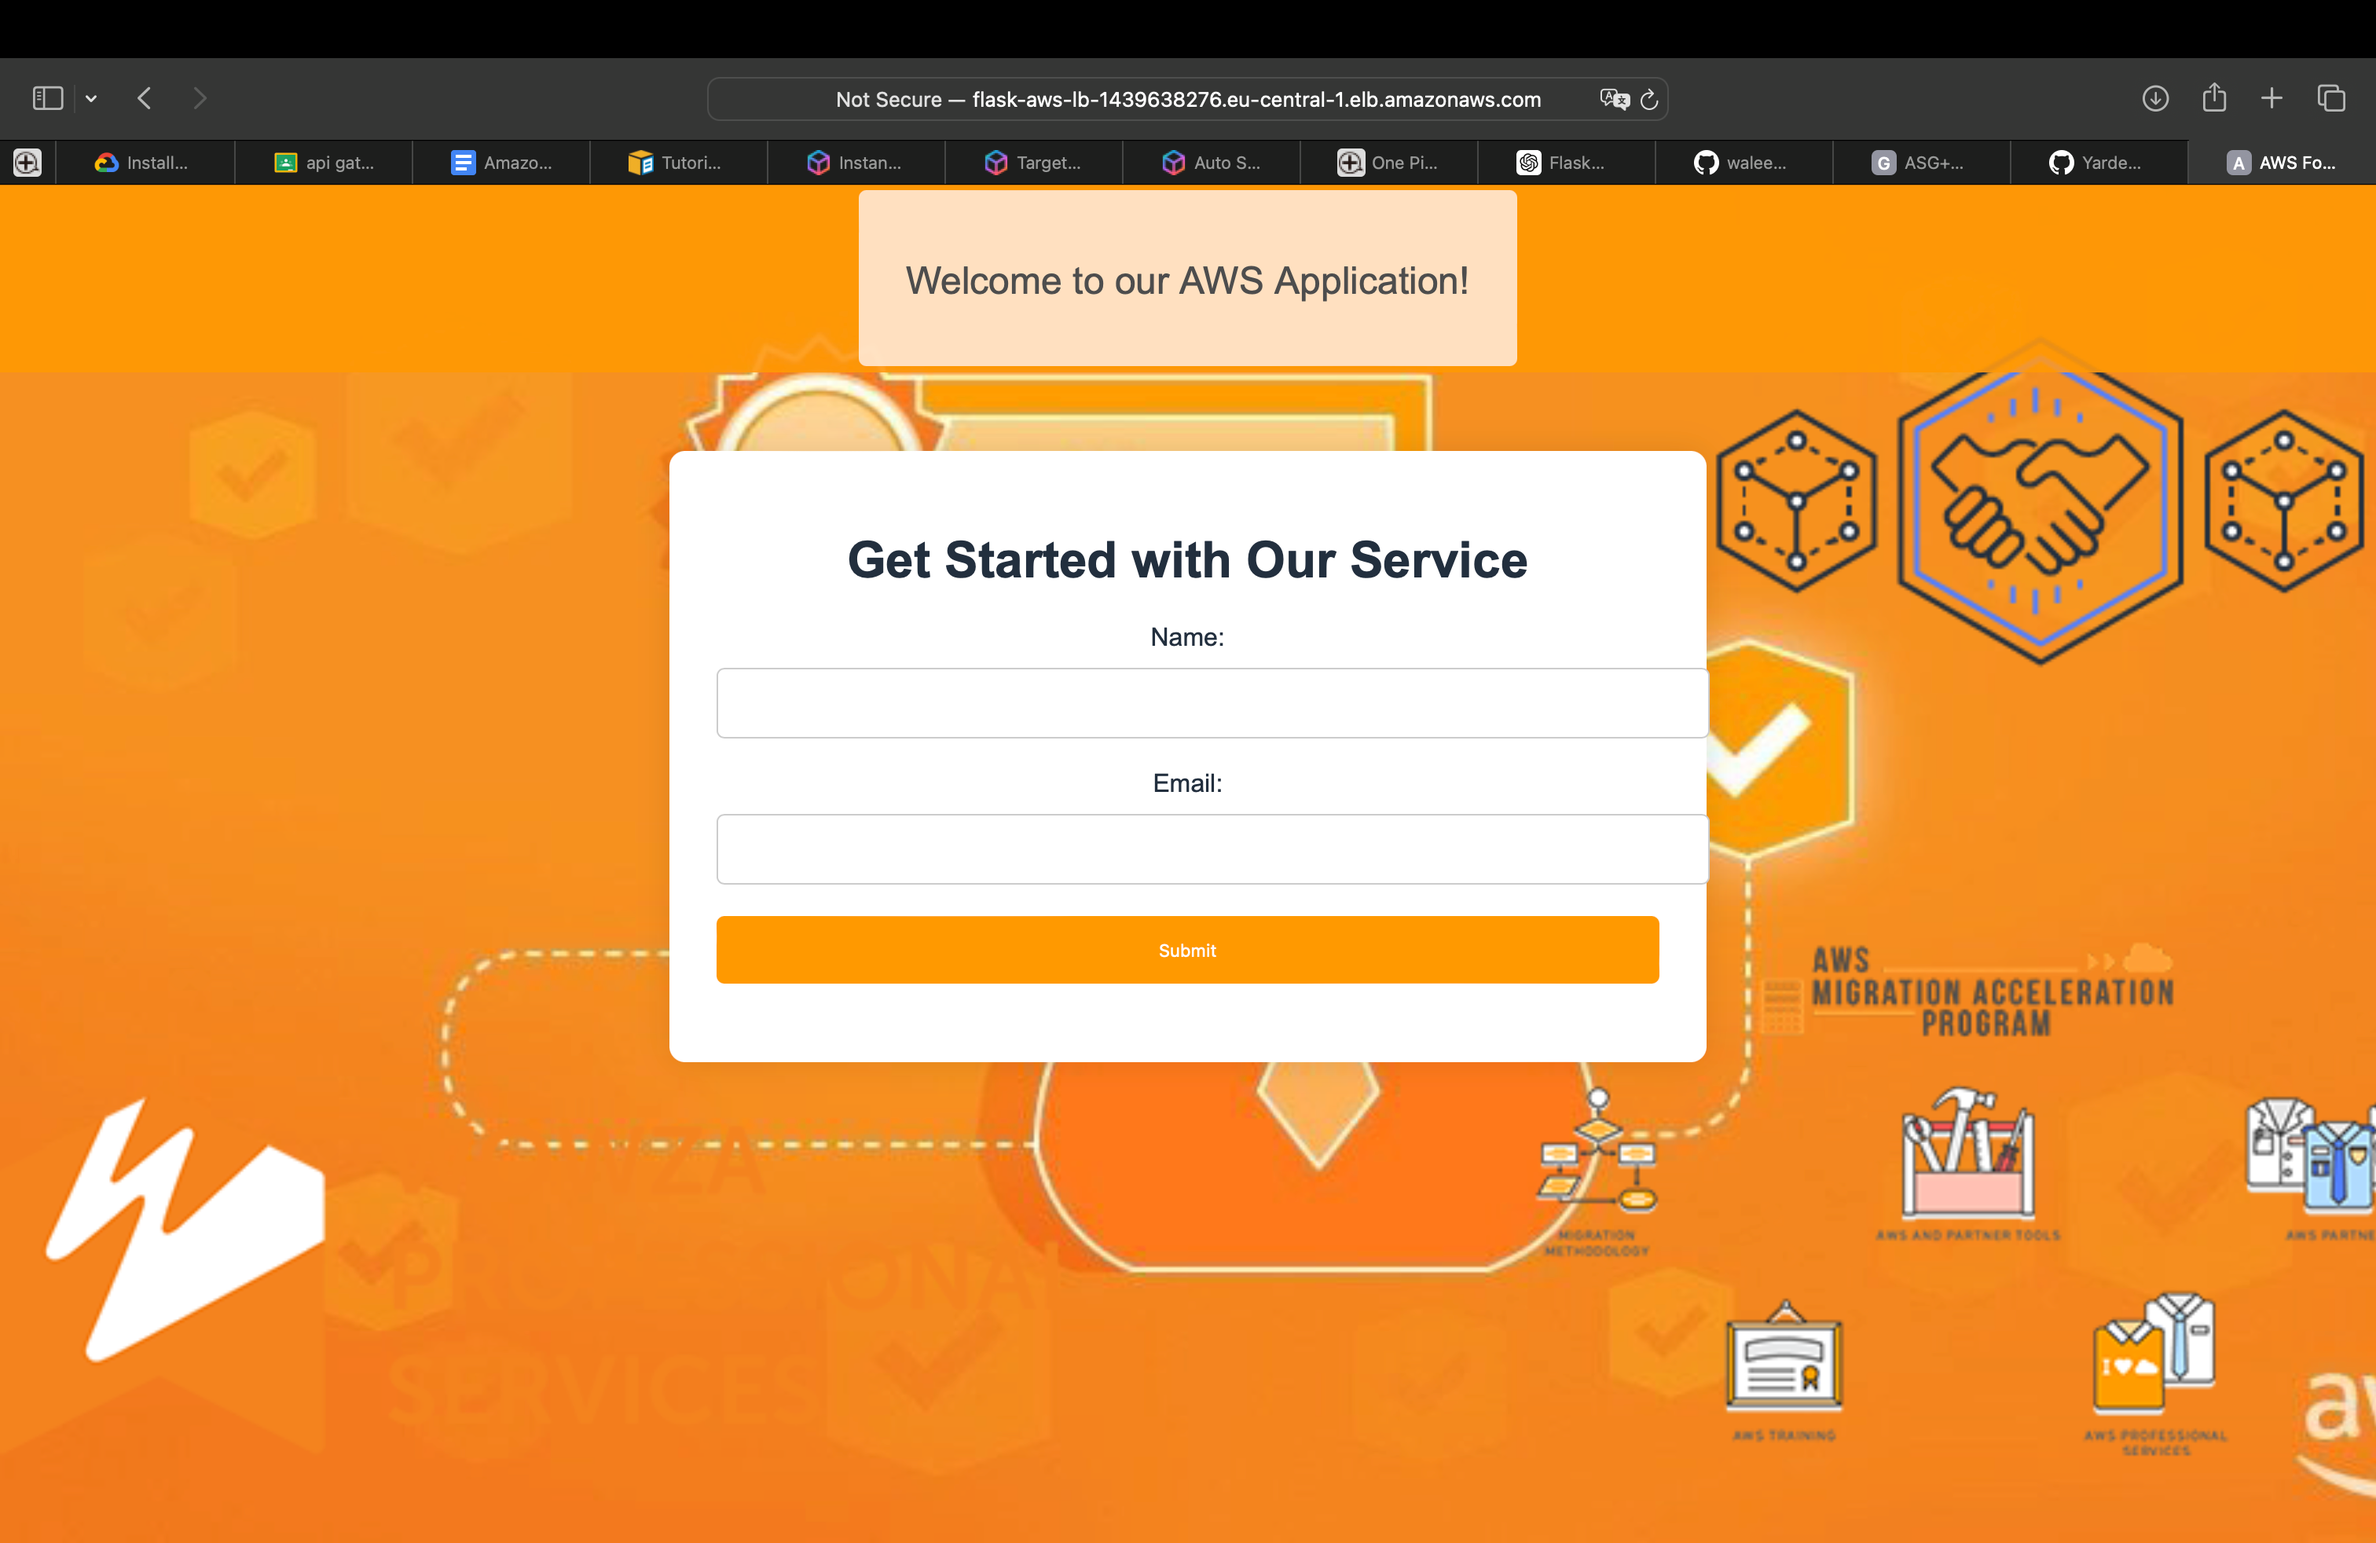
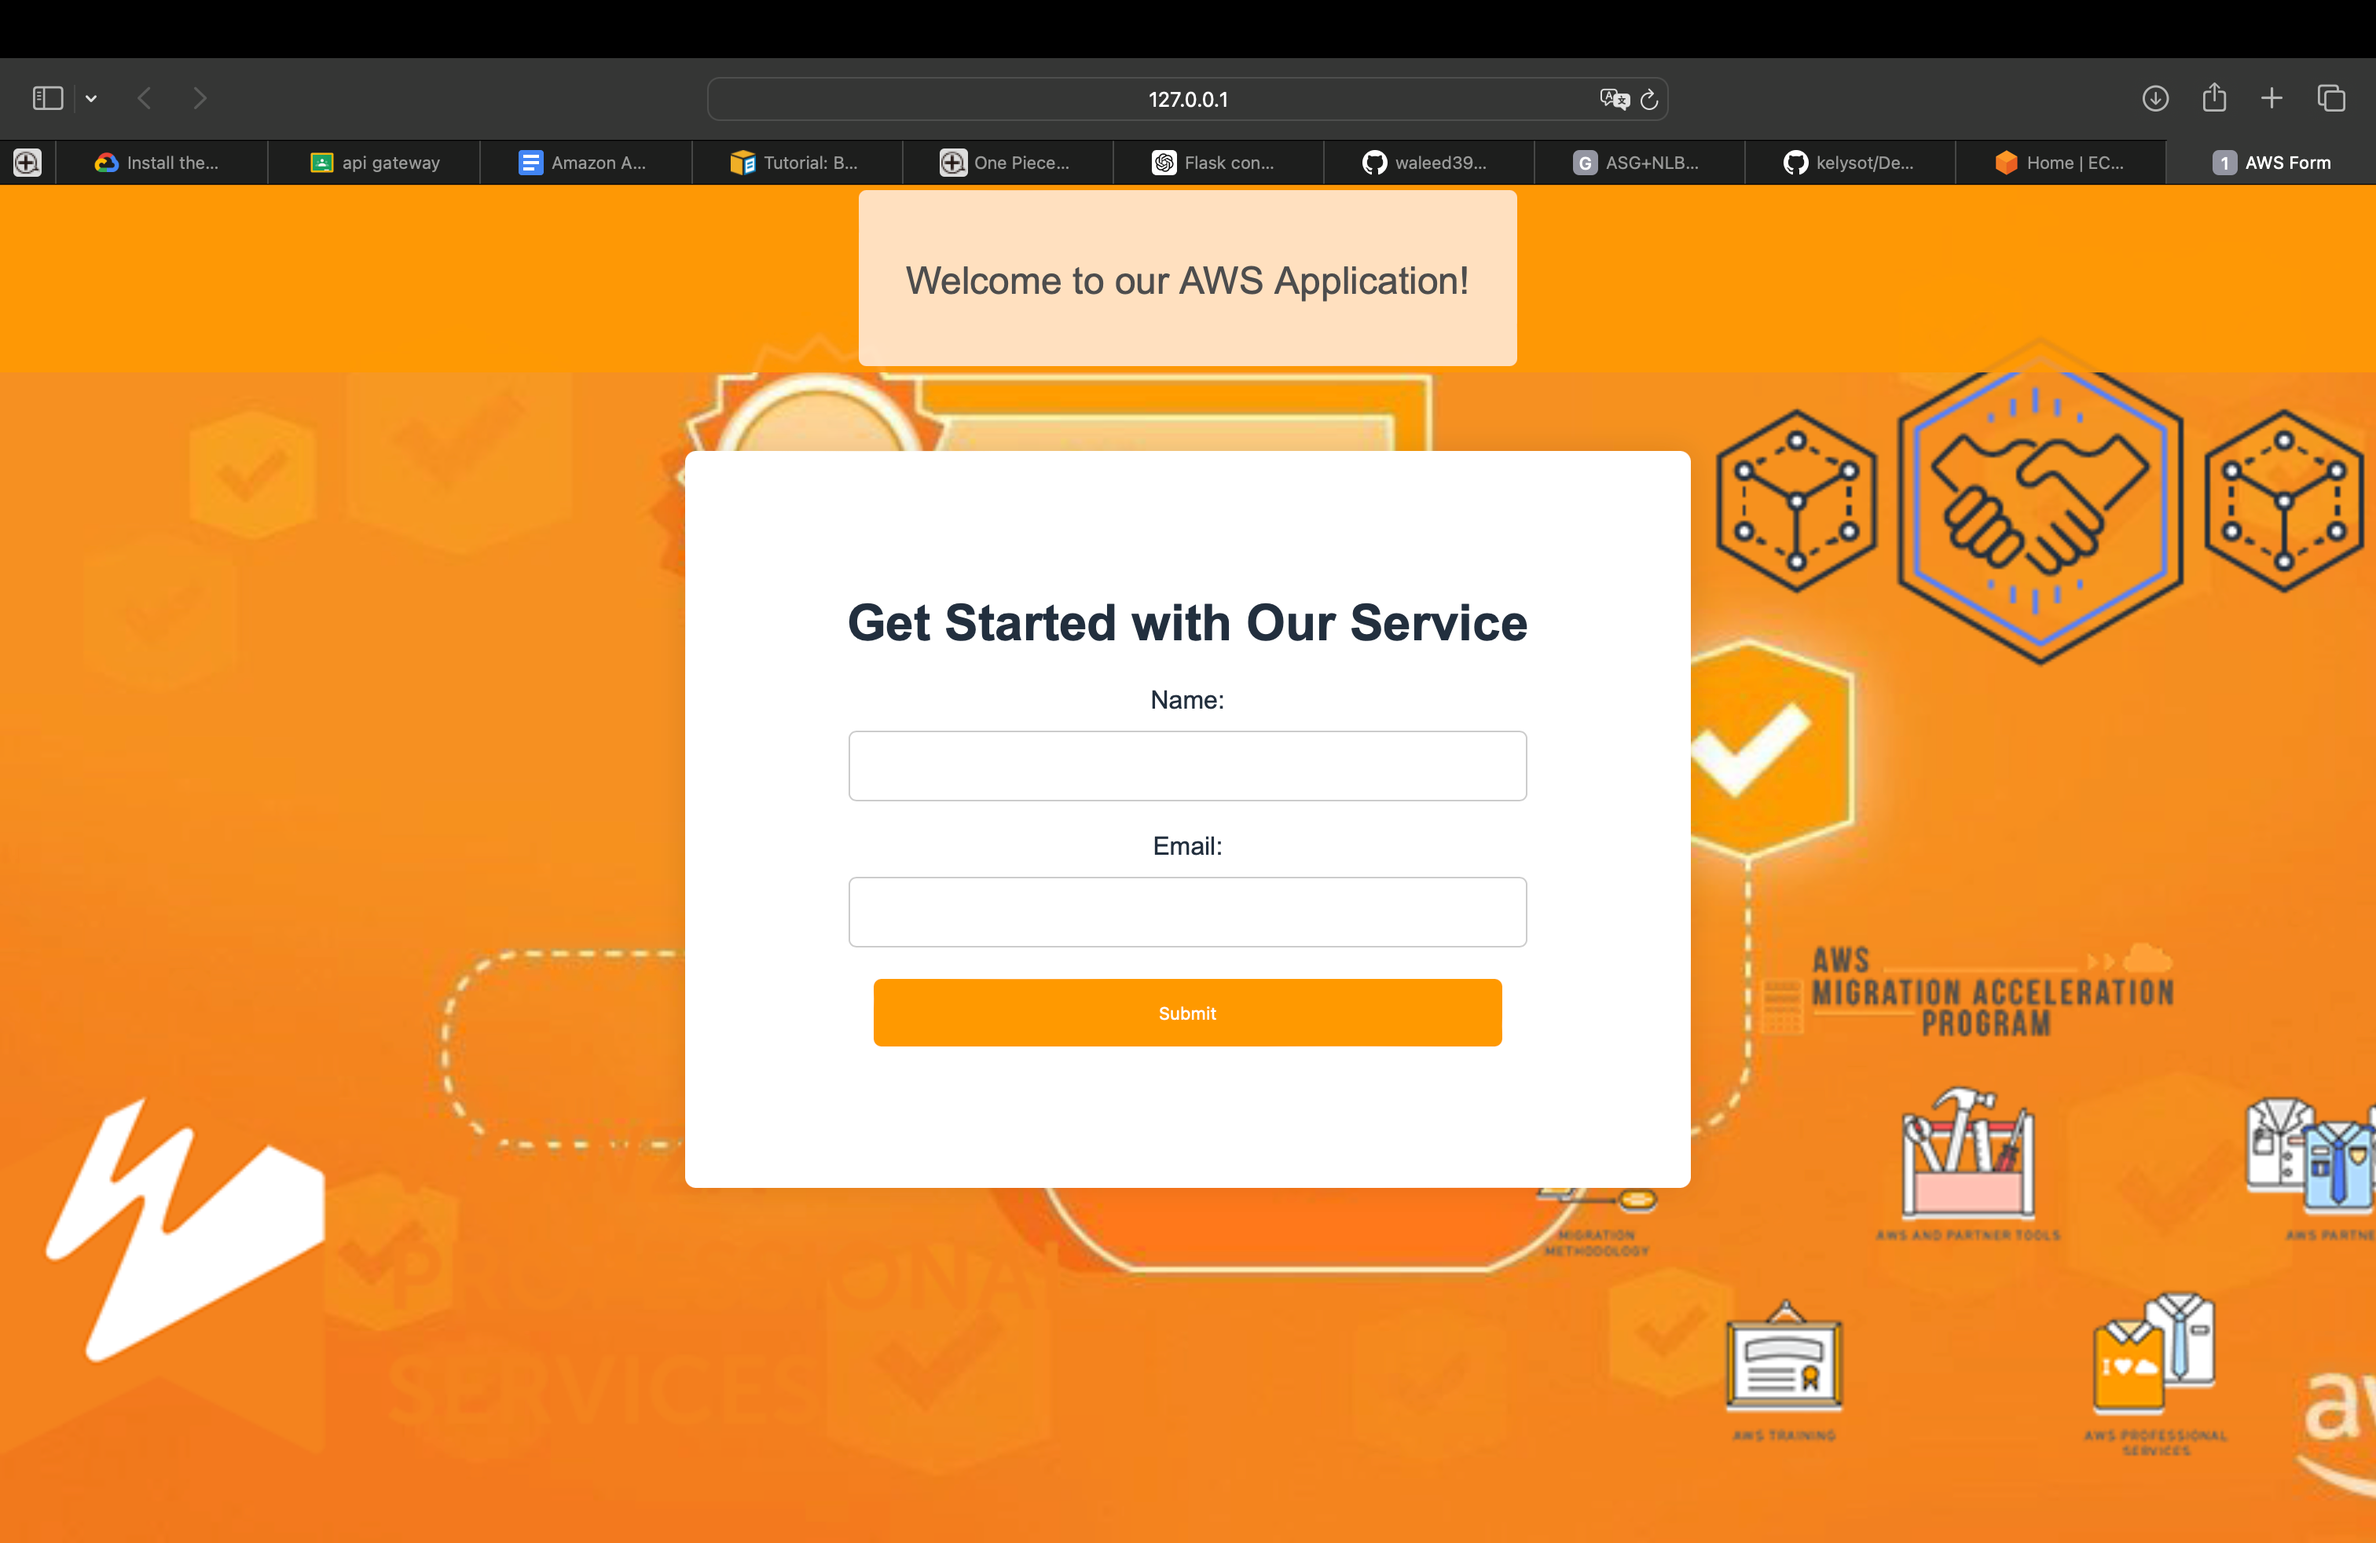
readme

diff --git a/static/homepage-style.css b/static/homepage-style.css
@@ -43,10 +43,10 @@ body {
 }
 
 .container {
-    max-width: 600px;
-    padding: 50px;
+    max-width: 500px;
+    padding: 70px;
     background-color: #fff;
-    border-radius: 10px;
+    border-radius: 7px;
     box-shadow: 0 0 20px rgba(0, 0, 0, 0.1);
     text-align: center;
     margin: 50px auto; /* Center the container horizontally */
@@ -70,7 +70,7 @@ label {
 input[type="text"],
 input[type="email"],
 button {
-    width: 100%;
+    width: 80%;
     padding: 15px;
     margin-bottom: 20px;
     border: 1px solid #ccc;

diff --git a/README.md b/README.md
@@ -1,8 +1,15 @@
+### Project Description
+This project involves deploying a Flask application on an AWS EC2 instance using Docker and Docker Compose.
+The setup includes creating an EC2 template with Ubuntu 22.04, installing Docker and Docker Compose, and configuring necessary environment variables. 
+Additionally, it involves setting up an Auto Scaling Group to manage the application's load dynamically and a Load Balancer to ensure seamless access on port 5555.
+The final deployment ensures a scalable and balanced Flask application environment.
+
 ### 1. Create EC2 Template
 
 - **Operating System**: Ubuntu 22.04
 - **Instance Type**: t2.micro
 - **Security Group**: Allow inbound traffic on ports 22 (SSH), 80 (HTTP), and 5555 (application).
+- **IAM Role**: Assign the S3ReadOnlyAccess permission to the instance role
 - **User data**:
     ```bash
     #!/bin/bash
@@ -34,7 +41,8 @@
     # Start the application
     sudo docker-compose up --build
     ```
-
+# Make sure your S3 AWS Bucket is private by editing the permissions:
+![](images/img_8.png)
 ### 2. Create Auto Scaling Group
 
 - To test your Auto Scaling, connect to your EC2 instance and run the following command:
@@ -51,8 +59,8 @@
 
 - Your application is now fully deployed with auto-scaling and load balancing.
 
-## Another way to 
-## These steps can be used if you dont want to create a autoscaling group and LoadBalancer and just run the application on EC2 !
+## Another Easier way to deploy the application is by creating EC2
+## These steps can be used if you dont want to create an autoscaling group and LoadBalancer and just run the application on EC2 !
 # 🐍 Flask AWS Deployment Guide
 
 This guide will help you deploy your Flask application on an EC2 instance using Docker and Docker Compose.
@@ -140,10 +148,10 @@ This guide will help you deploy your Flask application on an EC2 instance using 
     ```
     Add the following content to the `.env` file:
     ```
-    MONGO_URI=mongodb+srv://Cluster43725:ZUJNUFBXe256@cluster43725.ce4eyvw.mongodb.net/test
-    S3_BUCKET_NAME=flask-aws-bucket
-    S3_OBJECT_KEY=surf.jpg
-    REGION=eu-central-1
+    MONGO_URI="YOUR_MONGO_CONNECTION_STRING"
+    S3_BUCKET_NAME="YOUR_BUCKET_NAME"
+    S3_OBJECT_KEY="YOUR_OBJECT_NAME"
+    REGION="YOUR_REGION"
     ```
     Save and exit the `.env` file.
     
